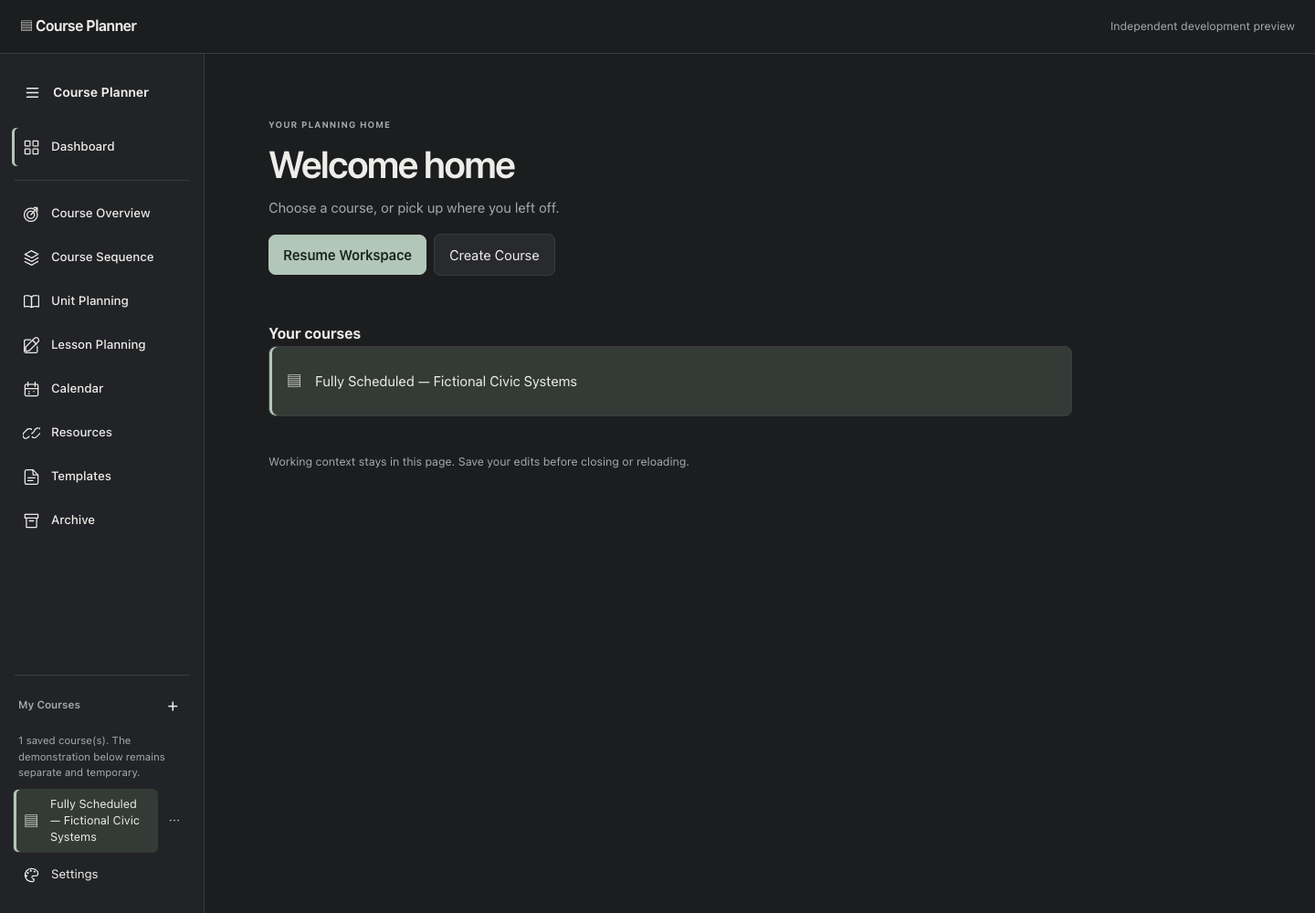
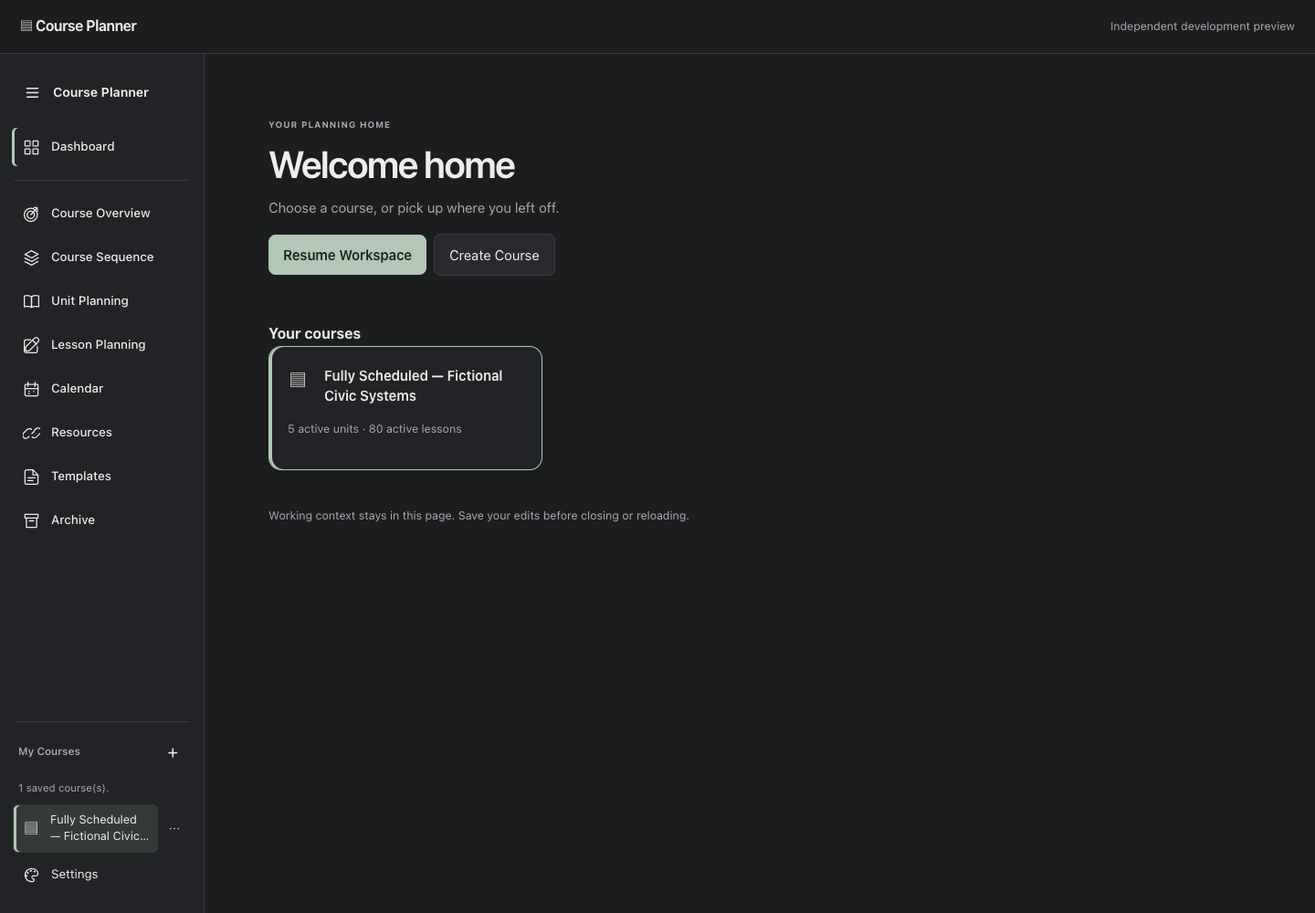
Refine Home with compact course summaries and consistent archive counts

diff --git a/app/private-workspace.js b/app/private-workspace.js
@@ -1,11 +1,11 @@
-import {syncWorkspaceShell,showWorkspaceDestination} from './workspace-shell.js';
+import {syncWorkspaceShell,showWorkspaceDestination,refreshWorkspaceCourseSummary} from './workspace-shell.js';
 import {createBuildSample,renderBuildSampleNotice} from './build-sample.js';
 import {buildSchedule,planningOutlook} from './build-schedule.js';
 import {renderPlanningOutlook,defaultOutlookPreferences} from './planning-outlook-view.js';
 import {EVENT_TYPES,normalizeEvent} from "./event-effects.js";
 import {previewSchedulingEvent,schedulingSnapshotToken} from "./scheduling-preview.js";
 import {renderSchedulingPreview} from "./scheduling-preview-view.js";
-import {isCalendarDate,addCalendarDays,shiftCalendarMonth,weekStart,todayInCourse,activeCalendarRecords} from "./calendar-model.js";
+import {isCalendarDate,calendarDateLabel,addCalendarDays,shiftCalendarMonth,weekStart,todayInCourse,activeCalendarRecords} from "./calendar-model.js";
 import {renderSavedCalendar} from "./calendar-view.js";
 
 /* Private Course Planner vertical slice: real, owner-isolated Supabase records.
@@ -109,6 +109,8 @@ export async function openPrivateCourse(client,user,id,{discardUnsaved=false,pre
  const firstError=[c.error,u.error,l.error,e.error].find(Boolean);
  if(firstError){if(sameCourse)status("Reload failed; current editor preserved: "+firstError.message,"error");else{status("Unable to open private course: "+firstError.message,"error");}return false;}
  if(!c.data || c.data.owner_id!==user.id){if(sameCourse)status("Course unavailable for this account.","error");else status("Course unavailable for this account.","error");return false;}
+ // Refresh Home from paginated metadata, never the editor's potentially capped read.
+ void refreshWorkspaceCourseSummary(client,id);
  // Cache only after the target passes the same authenticated owner-scoped read.
  api=client;owner=user;
  if(switching&&preserveContext)courseContexts.set(course.id,captureContext());
@@ -138,8 +140,9 @@ function render({primary=true,detail=true}={}){
  root.setAttribute?.('aria-label',sampleSession?'Temporary fictional Build Schedule scenario':'Saved curriculum planning');
  const title={overview:'Course Overview',resources:'Resources',templates:'Templates',archive:'Archive',sequence:'Course Sequence',units:'Unit Planning',lessons:'Lesson Planning',calendar:'Calendar'}[view];
  const summaryView=['overview','resources','templates','archive'].includes(view);
+ const counts=view==='overview'?{...activeCalendarRecords(display),exceptions:display.exceptions}:display;
  const action=summaryView?'':view==='calendar'?'<button type="button" data-outlook-open class="workspace-primary-action">Build Schedule</button>':`<button type="button" data-private-add="${view==='units'?'units':'lessons'}" class="workspace-primary-action">Add ${view==='units'?'unit':'lesson'}</button>`;
- const header=`<header class="private-header"><div><p class="private-kicker">${sampleSession?'FICTIONAL SUCCESS SCENARIO · IN MEMORY · NOT SAVED':'SAVED WORKSPACE · PRIVATE ACCOUNT'}</p><h2>${escapeHtml(display.course.name)}</h2><h1>${title}</h1><p class="workspace-counts">${display.units.length} unit(s) · ${display.lessons.length} lesson(s) · ${display.exceptions.length} calendar exception(s)</p></div><div class="workspace-toolbar">${action}<button type="button" data-inspector-open ${outlookState.result?'data-outlook-inspect':''} aria-label="${outlookState.result?'Review preview':'Show inspector'}">${outlookState.result?'Review preview':'Inspector'}</button>${sampleSession?'<button type="button" data-build-sample-reset>Reset sample</button><button type="button" data-build-sample-return>Return to your saved course</button>':'<details class="course-actions"><summary>Course actions</summary><button data-private-export type="button">Export course JSON</button><button type="button" data-private-reload>Reload saved data</button></details>'}</div></header>`;
+ const header=`<header class="private-header"><div><p class="private-kicker">${sampleSession?'FICTIONAL SUCCESS SCENARIO · IN MEMORY · NOT SAVED':'SAVED WORKSPACE · PRIVATE ACCOUNT'}</p><h2>${escapeHtml(display.course.name)}</h2><h1>${title}</h1><p class="workspace-counts">${counts.units.length} unit(s) · ${counts.lessons.length} lesson(s) · ${counts.exceptions.length} calendar exception(s)</p></div><div class="workspace-toolbar">${action}<button type="button" data-inspector-open ${outlookState.result?'data-outlook-inspect':''} aria-label="${outlookState.result?'Review preview':'Show inspector'}">${outlookState.result?'Review preview':'Inspector'}</button>${sampleSession?'<button type="button" data-build-sample-reset>Reset sample</button><button type="button" data-build-sample-return>Return to your saved course</button>':'<details class="course-actions"><summary>Course actions</summary><button data-private-export type="button">Export course JSON</button><button type="button" data-private-reload>Reload saved data</button></details>'}</div></header>`;
  const content=view==='overview'?renderOverview():['resources','templates','archive'].includes(view)?renderPlaceholder(view):view==='calendar'?renderCalendar():view==='units'?renderUnitList():renderSequence();
  const aside=`<div class="inspector-heading"><span>${inspector.kind==='lesson'?'Lesson details':inspector.kind==='unit'?'Unit details':inspector.kind==='build'?'Build Schedule':inspector.kind==='event'?'Calendar event':'Details'}</span><button type="button" data-private-home>Home</button><button type="button" data-inspector-close aria-label="Close inspector">×</button></div><details class="inspector-size"><summary>Inspector size</summary><label>Width<input type="range" data-inspector-width min="280" max="520" step="20" value="${inspector.width}" aria-label="Inspector width"></label></details><p data-inspector-status data-kind="${lastStatus.kind}" ${['error','pending'].includes(lastStatus.kind)?'':'hidden'}>${escapeHtml(lastStatus.message)}</p><div class="private-inspector-body">${renderInspector()}</div>`;
  const main=root.querySelector?.('.private-primary'),panel=root.querySelector?.('.private-inspector');
@@ -184,10 +187,10 @@ function renderOverview(){
  const active=activeCalendarRecords({course,units,lessons});
  const ready=active.lessons.filter(l=>l.planning_status==='Ready').length;
  const scheduled=active.lessons.filter(l=>l.scheduled_dates?.length).length;
- return `<section class="course-overview"><p>A summary of this course's saved records.</p><dl class="overview-counts"><div><dt>Active units</dt><dd>${active.units.length}</dd></div><div><dt>Active lessons</dt><dd>${active.lessons.length}</dd></div><div><dt>Ready</dt><dd>${ready}</dd></div><div><dt>With saved dates</dt><dd>${scheduled}</dd></div></dl><p>${escapeHtml(course.first_day||'Start date not set')} · ${escapeHtml(course.last_day||'End date not set')}</p><h3>Units</h3>${renderUnitList()}<div class="overview-links"><button type="button" data-private-tab="sequence">Course Sequence</button><button type="button" data-private-tab="lessons">Lesson Planning</button><button type="button" data-private-tab="calendar">Calendar</button></div></section>`;
+ return `<section class="course-overview"><p>A summary of this course's saved records.</p><dl class="overview-counts"><div><dt>Active units</dt><dd>${active.units.length}</dd></div><div><dt>Active lessons</dt><dd>${active.lessons.length}</dd></div><div><dt>Ready</dt><dd>${ready}</dd></div><div><dt>With saved dates</dt><dd>${scheduled}</dd></div></dl><p>${escapeHtml(isCalendarDate(course.first_day)?calendarDateLabel(course.first_day,{year:'numeric',month:'short',day:'numeric'}):'Start date not set')} – ${escapeHtml(isCalendarDate(course.last_day)?calendarDateLabel(course.last_day,{year:'numeric',month:'short',day:'numeric'}):'End date not set')}</p><h3>Units</h3>${renderUnitList(active)}<div class="overview-links"><button type="button" data-private-tab="sequence">Course Sequence</button><button type="button" data-private-tab="lessons">Lesson Planning</button><button type="button" data-private-tab="calendar">Calendar</button></div></section>`;
 }
 function renderPlaceholder(view){const descriptions={resources:'Course resource management is coming later. Existing lesson resource references remain available in Lesson Planning.',templates:'Saved template management is coming later. Your existing lesson content stays available in Lesson Planning.',archive:'Archive browsing and recovery are coming later. Archived records remain included in course exports and account backups.'};return `<section class="workspace-placeholder"><h3>Under development</h3><p>${descriptions[view]}</p></section>`;}
-function renderUnitList(){return `<div class="workspace-unit-list">${units.map(u=>`<button type="button" data-private-unit="${escapeHtml(u.id)}"><span class="unit-marker" style="--unit-marker:var(--unit-${(units.indexOf(u)%5)+1})" aria-hidden="true"></span><span><strong>${escapeHtml(u.title)}</strong><small>${lessons.filter(l=>l.unit_id===u.id).length} lessons · ${escapeHtml(u.essential_questions||'No essential question yet')}</small></span></button>`).join('')||'<p>No units yet. Add your first unit.</p>'}</div>`;}
+function renderUnitList(records={units,lessons}){return `<div class="workspace-unit-list">${records.units.map(u=>`<button type="button" data-private-unit="${escapeHtml(u.id)}"><span class="unit-marker" style="--unit-marker:var(--unit-${(units.indexOf(u)%5)+1})" aria-hidden="true"></span><span><strong>${escapeHtml(u.title)}</strong><small>${records.lessons.filter(l=>l.unit_id===u.id).length} lessons · ${escapeHtml(u.essential_questions||'No essential question yet')}</small></span></button>`).join('')||'<p>No units yet. Add your first unit.</p>'}</div>`;}
 function calendarPresentation(){const records=calendarRecords(),outlook=planningOutlook(records,outlookState.result,{focusDate:calendarState.selected,weeks:outlookState.preferences.weeks});return {records,outlook,presentation:{confirmed:outlookState.preferences.confirmed,byDate:outlookState.preferences.tentative?outlook.byDate:{},allowEventPreview:!sampleSession}};}
 function renderInspector(){
  if(inspector.kind==='build'){const {records,outlook}=calendarPresentation();return renderPlanningOutlook(records,outlookState,outlook,{surface:'inspector'});}

diff --git a/app/workspace-shell.js b/app/workspace-shell.js
@@ -1,8 +1,10 @@
+import {readCourseSummary,summaryLabel} from './course-summary.js';
 // All presentation/context in this milestone is page-memory only, never Auth settings.
 const byId=id=>document.getElementById(id);
 const icons=['▤','◈','◉','✦','⌘','▥'];
 let accountId=null,courses=[],currentCourse=null,currentTab=null,sample=false,destination='home';
-const courseIcons=new Map();
+const courseIcons=new Map(),courseSummaries=new Map(),summaryVersions=new Map();
+let summaryGeneration=0;
 let workspaceFocus=null;
 function navigationState(){const b=byId('sidebar-collapse');if(!b)return;const expanded=matchMedia('(max-width:700px)').matches?document.body.classList.contains('mobile-nav-open'):!document.body.classList.contains('sidebar-collapsed');b.setAttribute('aria-expanded',String(expanded));b.setAttribute('aria-label',expanded?'Collapse navigation':'Expand navigation');}
 function syncDestination(){
@@ -15,13 +17,31 @@ function syncDestination(){
  window.dispatchEvent(new Event('workspace-destination'));
 }
 export function showWorkspaceDestination(next){if(next==='home'&&destination==='workspace')workspaceFocus=document.activeElement;destination=next==='workspace'&&currentCourse?'workspace':'home';syncDestination();if(destination==='workspace'&&workspaceFocus?.isConnected)workspaceFocus.focus({preventScroll:true});}
-export function setWorkspaceAccount(id){if(accountId!==id){courseIcons.clear();workspaceFocus=null;courses=[];currentCourse=null;currentTab=null;destination='home';}accountId=id;renderCourseEntries();syncDestination();}
-export function setWorkspaceCourses(rows){courses=rows;renderCourseEntries();}
-function courseButton(row){const b=document.createElement('button');b.type='button';b.dataset.privateOpen=row.id;b.setAttribute('aria-label','Open '+row.name);b.title=row.name;const icon=document.createElement('span');icon.className='course-icon';icon.setAttribute('aria-hidden','true');icon.textContent=courseIcons.get(row.id)||icons[0];const name=document.createElement('span');name.className='course-label';name.textContent=row.name;b.append(icon,name);if(currentCourse?.id===row.id)b.setAttribute('aria-current','true');return b;}
+export function setWorkspaceAccount(id){if(accountId!==id){courseIcons.clear();courseSummaries.clear();summaryVersions.clear();summaryGeneration++;workspaceFocus=null;courses=[];currentCourse=null;currentTab=null;destination='home';}accountId=id;renderCourseEntries();syncDestination();}
+export function setWorkspaceCourses(rows){courses=rows;courseSummaries.clear();summaryVersions.clear();summaryGeneration++;renderCourseEntries();}
+function updateSummaryLabel(id){
+ const node=byId('home-courses')?.querySelector('[data-course-summary="'+id+'"]');if(!node)return;
+ const summary=courseSummaries.get(id);node.textContent=summary?.error?'Summary unavailable':summary?summaryLabel(summary):'Loading course summary…';
+}
+async function loadSummary(client,row,generation){
+ const version=(summaryVersions.get(row.id)||0)+1;summaryVersions.set(row.id,version);let summary;
+ try{summary=await readCourseSummary(client,row);}catch{summary={error:true};}
+ if(generation!==summaryGeneration||version!==summaryVersions.get(row.id))return;
+ courseSummaries.set(row.id,summary);updateSummaryLabel(row.id);
+}
+export async function refreshWorkspaceCourseSummary(client,id){
+ const row=courses.find(row=>row.id===id);if(accountId&&row)await loadSummary(client,row,summaryGeneration);
+}
+export async function refreshWorkspaceSummaries(client){
+ const generation=summaryGeneration,queue=[...courses];
+ async function worker(){while(queue.length&&generation===summaryGeneration)await loadSummary(client,queue.shift(),generation);}
+ await Promise.all(Array.from({length:Math.min(3,queue.length)},worker));
+}
+function courseButton(row,summary=false){const b=document.createElement('button');b.type='button';b.dataset.privateOpen=row.id;b.setAttribute('aria-label','Open '+row.name);b.title=row.name;const icon=document.createElement('span');icon.className='course-icon';icon.setAttribute('aria-hidden','true');icon.textContent=courseIcons.get(row.id)||icons[0];const name=document.createElement('span');name.className='course-label';name.textContent=row.name;b.append(icon,name);if(summary){b.className='home-course-card';const facts=document.createElement('span');facts.className='course-facts';facts.dataset.courseSummary=row.id;const value=courseSummaries.get(row.id);facts.textContent=value?.error?'Summary unavailable':value?summaryLabel(value):'Loading course summary…';b.append(facts);}if(currentCourse?.id===row.id)b.setAttribute('aria-current','true');return b;}
 function renderCourseEntries(){
  const list=byId('saved-courses'),home=byId('home-courses');if(!list||!home)return;
  list.replaceChildren(...courses.map(row=>{const li=document.createElement('li');li.append(courseButton(row));const edit=document.createElement('button');edit.type='button';edit.dataset.courseIcon=row.id;edit.textContent='⋯';edit.className='course-icon-edit';edit.setAttribute('aria-label','Change icon for '+row.name);edit.title='Change course icon (this session)';li.append(edit);return li;}));
- home.replaceChildren(...courses.map(courseButton));if(!courses.length)home.textContent=accountId?'No courses yet. Create your first course to begin.':'';
+ home.replaceChildren(...courses.map(row=>courseButton(row,true)));if(!courses.length)home.textContent=accountId?'No courses yet. Create your first course to begin.':'';
 }
 export function syncWorkspaceShell(course,tab,isSample=false){
  if(typeof document==='undefined')return;currentCourse=course;currentTab=tab;sample=isSample;

diff --git a/app/workspace.css b/app/workspace.css
@@ -81,3 +81,14 @@ body:has(#private-home:not([hidden])) .workspace-empty{display:none}
 .sidebar-collapsed #saved-courses button[data-private-open]{padding:7px 0;justify-content:center}
 @media(max-width:700px){#saved-courses button[data-private-open]{padding:7px 0;justify-content:center}.mobile-nav-open #saved-courses button[data-private-open]{padding:7px 8px;justify-content:flex-start}}
 .teacher-sidebar #saved-courses .course-icon{display:block}
+/* DEC-093: balanced, bounded course summaries; one course never stretches. */
+.home-courses{grid-template-columns:repeat(auto-fill,minmax(min(252px,100%),300px));gap:16px;align-items:stretch}
+.home-courses .home-course-card{display:grid;grid-template-columns:28px minmax(0,1fr);grid-template-rows:auto auto;align-content:start;align-items:start;column-gap:12px;row-gap:16px;padding:20px;min-height:136px;box-sizing:border-box;border:1px solid transparent;border-radius:14px;background:var(--surface);transition:background-color .15s,border-color .15s}
+.home-course-card .course-icon{font-size:1.4rem;line-height:1.4}.home-course-card .course-label{font-weight:600;line-height:1.5;overflow-wrap:anywhere}
+.home-course-card .course-facts{grid-column:1/-1;font-size:.78rem;color:var(--muted);font-weight:400;line-height:1.5}
+.home-courses .home-course-card:hover{background:var(--raised);border-color:var(--line)}
+.home-courses .home-course-card[aria-current=true]{background:var(--surface);border-color:var(--accent);box-shadow:inset 3px 0 var(--accent)}
+#saved-courses .course-label{display:-webkit-box;-webkit-line-clamp:2;-webkit-box-orient:vertical;overflow:hidden;line-height:1.45}
+.sidebar-collapsed #saved-courses .course-label{display:none}
+@media(max-width:700px){.home-courses{grid-template-columns:minmax(0,300px)}#saved-courses .course-label{display:none}.mobile-nav-open #saved-courses .course-label{display:-webkit-box}.home-courses .home-course-card{padding:18px;min-height:130px}}
+.course-overview .workspace-unit-list{display:grid;gap:10px}.course-overview .workspace-unit-list>button{border:0;background:var(--surface);border-radius:10px;padding:16px}

diff --git a/app/course-summary.js b/app/course-summary.js
@@ -1,0 +1,31 @@
+import {activeCalendarRecords} from './calendar-model.js';
+
+// Derived display facts only. No curriculum content or alternate record store.
+export function summarizeCourse(course,units,lessons){
+ if(units.some(u=>u.course_id!==course.id)||lessons.some(l=>l.course_id!==course.id))throw new Error('Unexpected course relationship.');
+ const unitIds=new Set(units.map(u=>u.id));
+ if(lessons.some(l=>!unitIds.has(l.unit_id)))throw new Error('Incomplete course relationships.');
+ const active=activeCalendarRecords({course,units,lessons});
+ return {units:active.units.length,lessons:active.lessons.length};
+}
+async function readMetadata(client,table,courseId,columns,max){
+ const rows=[];
+ for(let start=0;start<=max;start+=500){
+  const {data,error}=await client.from(table).select(columns).eq('course_id',courseId).order('id').range(start,start+499);
+  if(error||!Array.isArray(data))throw new Error('Course summary unavailable.');
+  rows.push(...data);
+  if(rows.length>max)throw new Error('Course summary exceeds pilot limits.');
+  if(data.length<500)return rows;
+ }
+ throw new Error('Course summary exceeds pilot limits.');
+}
+export async function readCourseSummary(client,course){
+ const [units,lessons]=await Promise.all([
+  readMetadata(client,'units',course.id,'id,course_id,archived_at',200),
+  readMetadata(client,'lessons',course.id,'id,course_id,unit_id,archived_at',2000)
+ ]);
+ // courses.updated_at is not a reliable course-wide edit marker: unit/lesson
+ // edits do not necessarily update it. Do not label it as "Last edited".
+ return summarizeCourse(course,units,lessons);
+}
+export function summaryLabel(summary){return `${summary.units} active ${summary.units===1?'unit':'units'} · ${summary.lessons} active ${summary.lessons===1?'lesson':'lessons'}`;}

diff --git a/app/auth.js b/app/auth.js
@@ -1,4 +1,4 @@
-import {setWorkspaceAccount,setWorkspaceCourses,showWorkspaceDestination} from "./workspace-shell.js";
+import {setWorkspaceAccount,setWorkspaceCourses,refreshWorkspaceSummaries,showWorkspaceDestination} from "./workspace-shell.js";
 import { createClient } from "https://esm.sh/@supabase/supabase-js@2.57.0";
 import { openPrivateCourse, clearPrivateWorkspace, activePrivateCourseId, isPrivateWorkspaceBusy, isPrivateWorkspaceDirty } from "./private-workspace.js";
 import { SUPABASE_URL, SUPABASE_PUBLISHABLE_KEY } from "./config.js";
@@ -24,8 +24,9 @@ async function refresh(){
  const {data,error:readError}=await client.from("courses").select("id,name,revision,updated_at").order("updated_at",{ascending:false});
  if(call!==refreshEpoch)return;
  if(readError){storageStatus.textContent="Could not load courses: "+readError.message;return;}
- storageStatus.textContent=data.length?data.length+" saved course(s). The demonstration below remains separate and temporary.":"No saved courses yet. Create one to test cloud persistence.";
+ storageStatus.textContent=data.length?data.length+" saved course(s).":"No saved courses yet. Create your first course.";
  setWorkspaceCourses(data);
+ void refreshWorkspaceSummaries(client);
  const prior=activePrivateCourseId();const toOpen=data.find(x=>x.id===prior)?.id||data[0]?.id;
  if(toOpen){if(!isPrivateWorkspaceDirty())await openPrivateCourse(client,currentUser,toOpen);}else clearPrivateWorkspace();
  }catch(err){if(call===refreshEpoch)authStatus.textContent="Sign-in check failed: "+err.message;}

diff --git a/app/docs/home-navigation.md b/app/docs/home-navigation.md
@@ -54,7 +54,7 @@ untouched; local private evidence remains under Git-ignored `app/reviews/`.
 Results and known limits will be recorded here after automated and browser runs.
 Owner visual acceptance is required before any merge or production promotion.
 
-## Implemented behavior and personally run checks
+## Original milestone behavior and checks (98ca9b6)
 
 Home hides, rather than replaces, the existing central DOM; Resume restores focus
 without scrolling. A mobile inspector Home button provides an exit while retaining
@@ -72,7 +72,7 @@ and sign-out clear all contexts and icon choices. Course creation uses the same
 owner-scoped insert and retains the old course's draft/context; account checks
 also prevent stale create/restore callbacks from opening another user's course.
 
-Personally executed on the final application source:
+Personally executed on the original milestone source at `98ca9b6`:
 - `cd app && node --test tests/*.test.mjs`: **92 pass**, no failures/skips.
 - `node app/tests/calendar.browser.mjs` with bundled Playwright and local Chrome:
   **654 pass**, zero uncaught browser errors, desktop 1440×1000 and mobile 390×1000.
@@ -118,3 +118,93 @@ No durable workspace recovery, tabs/groups/splits, widget engine, persistent ico
 choice or collaboration grants are claimed. Course Overview is wired through the
 same planning destination renderer so it can participate in M2's future selected-
 tab and Open in New Tab behavior; those controls do not yet exist in the baseline.
+
+
+## DEC-093 refinement — compact summary cards (October 27, 2026)
+
+Implements the complete owner review at
+https://github.com/jmichaeldinardo-spec/Course-Planner/pull/9#issuecomment-6459579355.
+Read the current CPD through the verified collaboration connection; DEC-093 selects
+Option B, compact summary cards. This design decision does not approve the final UX
+or merging. PR #9 stays on its existing PR #6-derived branch and remains draft.
+
+### Implementation and data semantics
+
+Home uses bounded cards (up to 300px) in a responsive grid, with a soft neutral
+surface, retained course icon/name and active selection. The whole card is a native
+button, keyboard/touch accessible. Cards show independent active unit/lesson facts.
+`course-summary.js` reads only IDs, relationships and archive flags through the
+existing signed-in RLS client, scoped by the authorized course ID, ordered by ID,
+and paginated in batches of 500. No lesson text or second curriculum dataset is
+retained. Three workers bound concurrent course loading. Per-course request versions
+and the existing account/list generation prevent stale replies from publishing.
+Labels update in place without moving focus or rebuilding working editors.
+
+Counts follow `activeCalendarRecords`: an archived lesson is omitted, and all
+children of an archived unit are omitted even if not individually archived. Every
+course loads its own metadata. Incomplete/failed relationships or reads show Summary
+unavailable, never fake zero counts; the card remains a working entry. Reads beyond
+the existing 200-unit/2,000-lesson pilot bounds also show unavailable. A separately
+paginated refresh after course load/save keeps editor reads capped by the API from
+replacing an accurate Home count (tested with 1,201 lessons).
+
+**Last edited is intentionally omitted.** The available `courses.updated_at` records
+a course-row timestamp, not a guaranteed latest edit across units, lessons and
+calendar records. Missing child timestamps cannot be invented, and this refinement
+adds no timestamp contract, trigger or schema field. This follows the review's
+explicit instruction to omit unreliable last-edited information. Saved term dates
+in Overview are formatted as readable civil dates and are not edit timestamps.
+
+Overview now passes its active records into the unit-list renderer. Its header,
+summary totals, visible units and per-unit lesson counts agree. The default renderer
+inputs for Unit Planning and all other editors remain their original records, with
+unit color associations intact. Low-risk polish limits sidebar titles to two visual
+lines (full accessible name/title retained), shortens repeated status copy and gives
+Overview unit rows soft panels. No new navigation, widget or tab architecture.
+
+### Final personally executed verification
+
+- **97 Node tests pass**, no failures/skips (`node --test tests/*.test.mjs`). Five
+  additional summary tests cover archive relationships, immutability, empty/singular
+  counts, timestamp omission, course-only metadata reads, 1,201-lesson pagination,
+  failures, pilot size limits and cross-course/missing-parent rejection.
+- **695 full app browser checks pass**, zero uncaught errors, with synthetic data
+  and the real application modules at 1440px/390px plus focused 320px/760px checks.
+  All original navigation, dirty editor, save/reload/conflict, import/export, ZIP,
+  calendar, Build Schedule and mobile inspector regressions remain in the suite.
+- New browser coverage: bounded one-course layout; differing per-course counts;
+  zero records; long names; missing/course-only timestamps; whole-card Enter entry;
+  active course; archived unit with children and independently archived lesson;
+  Overview header/list/count consistency; other editor views unchanged; unit drafts
+  across Home/summary refresh/course switches; failed summary reads/clickable cards;
+  1,201-lesson counts despite capped editor reads; stale reply after sign-out; and
+  unchanged saved-record serialization/zero writes during navigation.
+- **265 marketing/demo checks pass**, 42 screenshots, zero browser errors. Marketing
+  source and original assertions remain unchanged.
+- `git diff --check` passes. No build/lint/typecheck script exists.
+
+Logs/full evidence: ignored `app/reviews/dec-093/`. All curated screenshots contain
+only deterministic synthetic records. Before images preserve the original `98ca9b6`
+render; the single-course before/after screenshots use the same original fixture.
+
+[Before desktop Home](home-navigation/before-dec-093/desktop-home.png) ·
+[After desktop Home](home-navigation/desktop-home.png) ·
+[Before mobile Home](home-navigation/before-dec-093/mobile-home.png) ·
+[After mobile Home](home-navigation/mobile-home.png) ·
+[Before Overview](home-navigation/before-dec-093/desktop-overview.png) ·
+[After Overview](home-navigation/desktop-overview.png)
+
+![Multiple courses — desktop](home-navigation/desktop-cards.png)
+![Multiple courses — mobile](home-navigation/mobile-cards.png)
+![Archive-consistent Overview](home-navigation/archived-overview.png)
+
+### Acceptance gates retained
+
+Owner visual acceptance and hosted signed-in acceptance remain open. Synthetic
+account tests do not establish real cross-account write/insert RLS correctness.
+No Supabase email was requested; the owner is rate-limited. No live saved rows were
+used or changed. No schemas, permissions, Auth settings, SDK version, marketing
+source, Google Sheet, Apps Script, scheduling engine or backup implementation changed.
+Page-memory icons/workspaces and M2 tab/split deferrals remain unchanged. No merge
+or production promotion is authorized or performed. Rollback of this refinement is
+the original PR #9 head `98ca9b6`; no data rollback is necessary.
